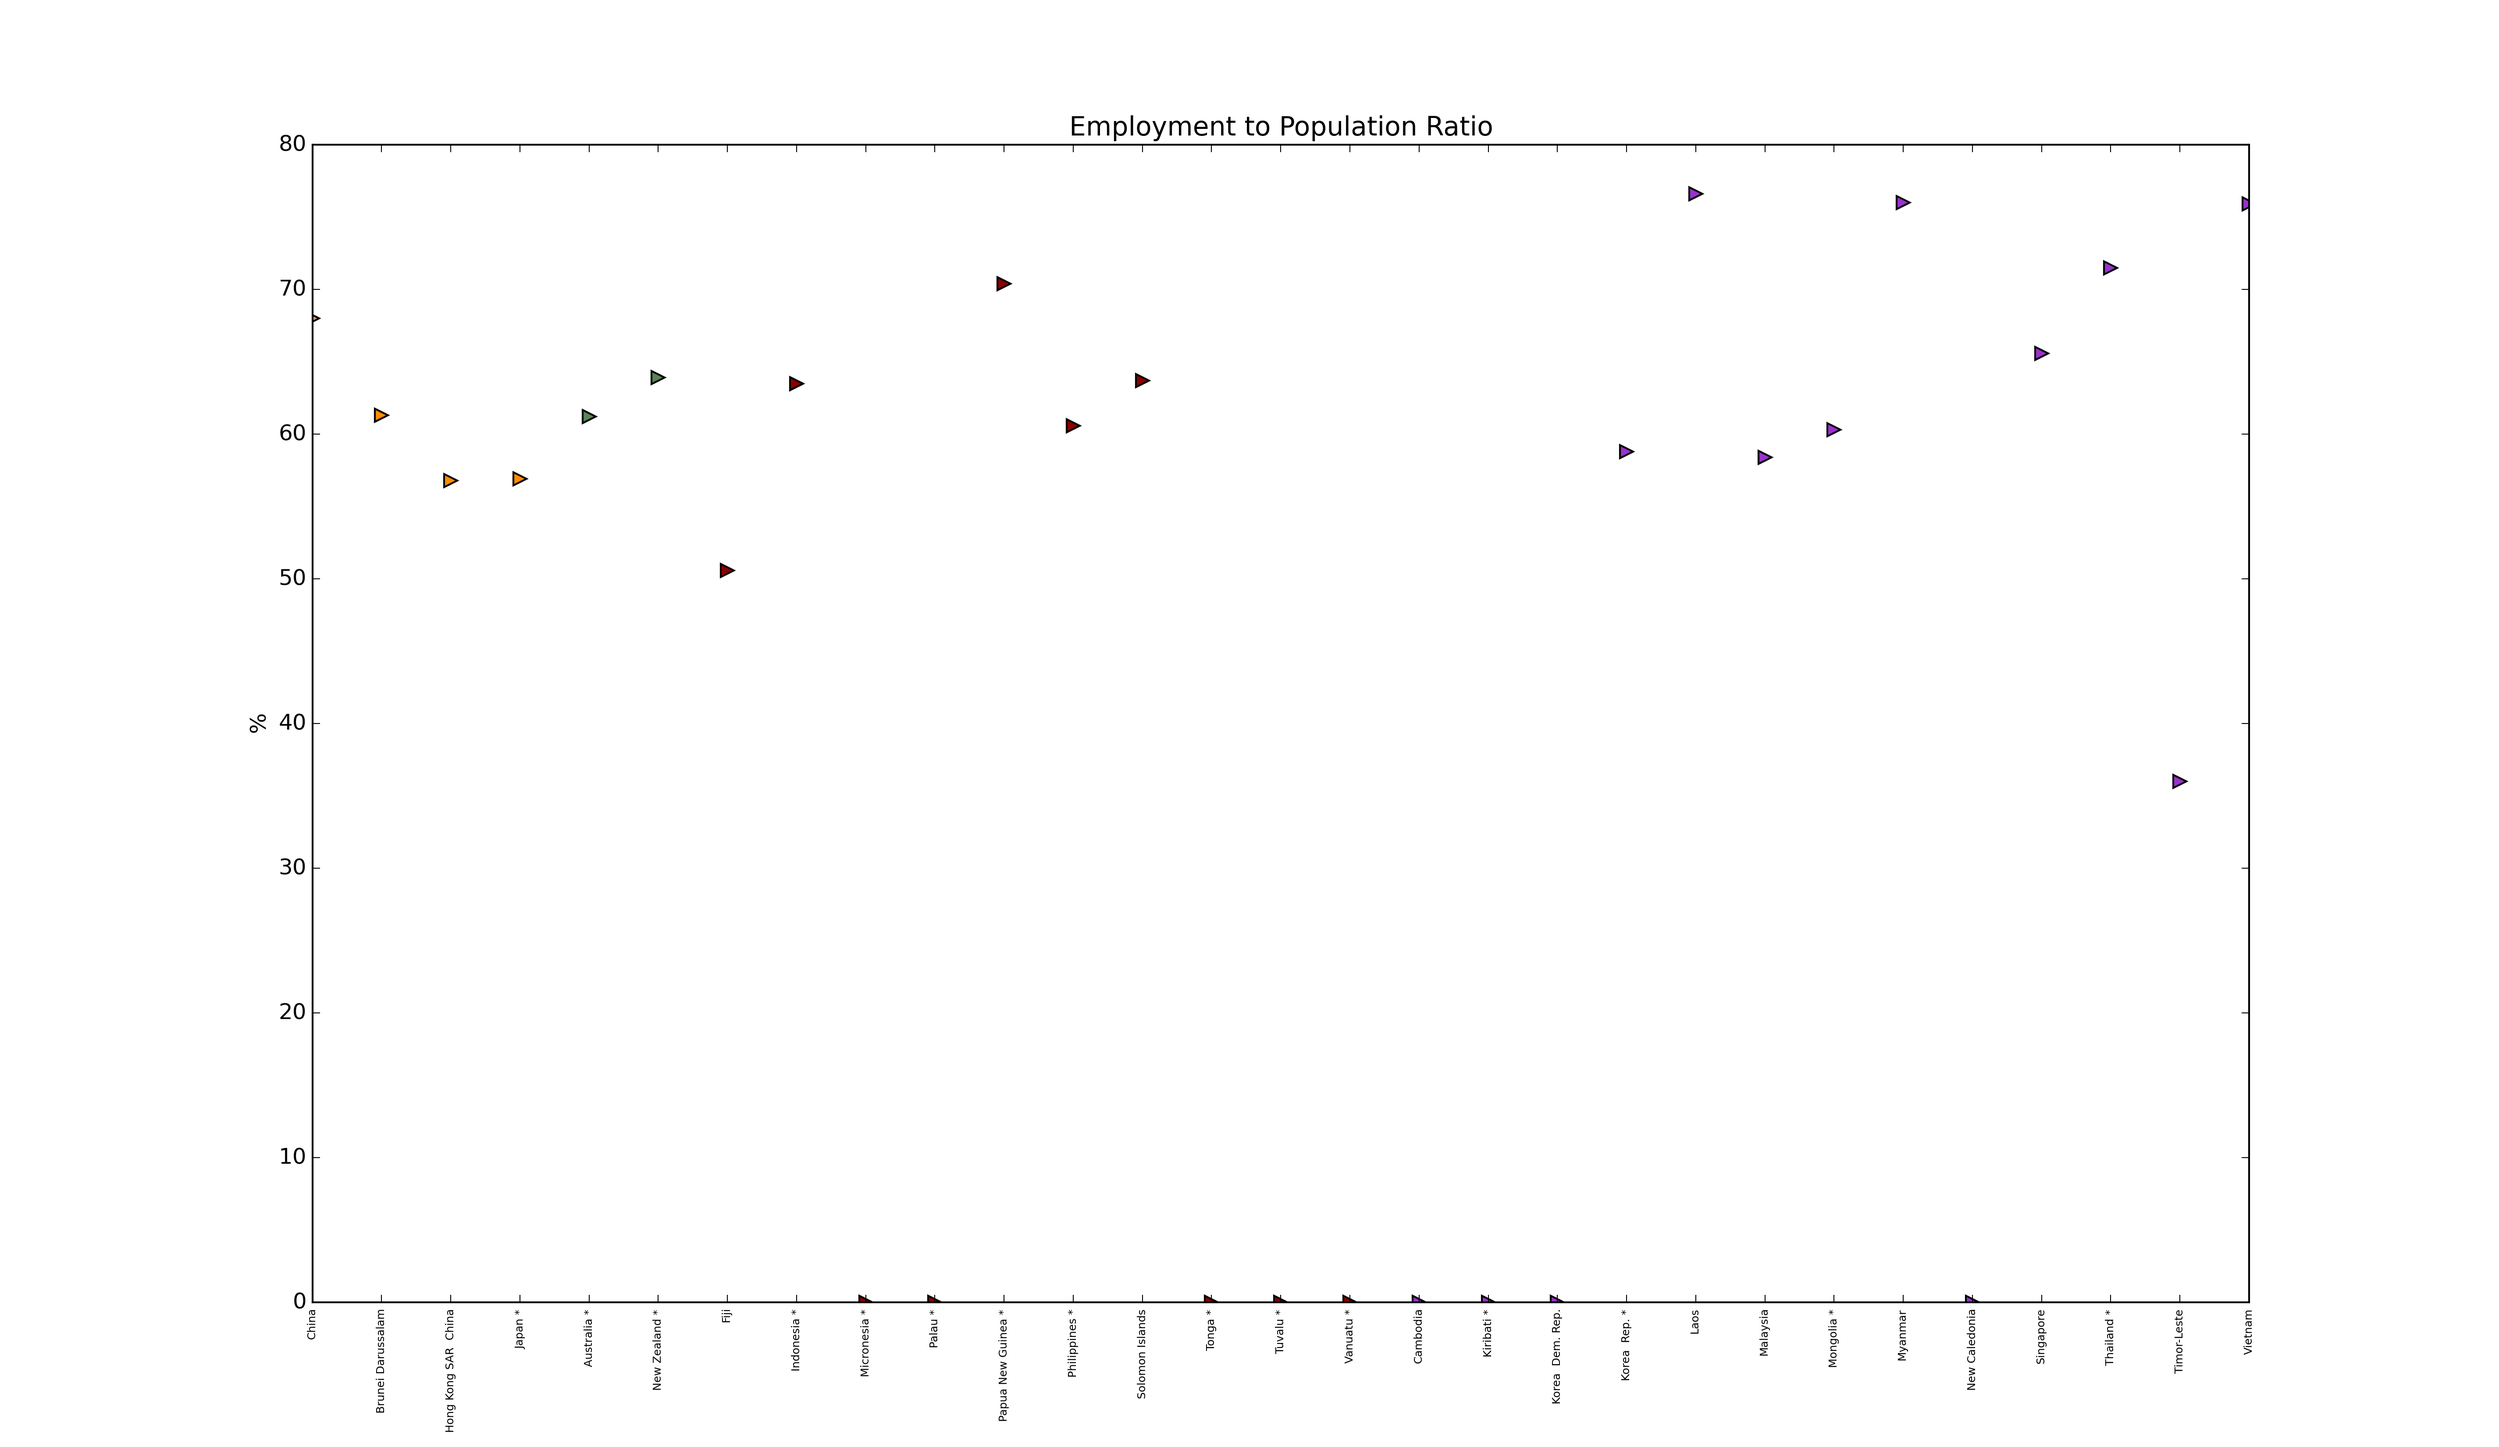
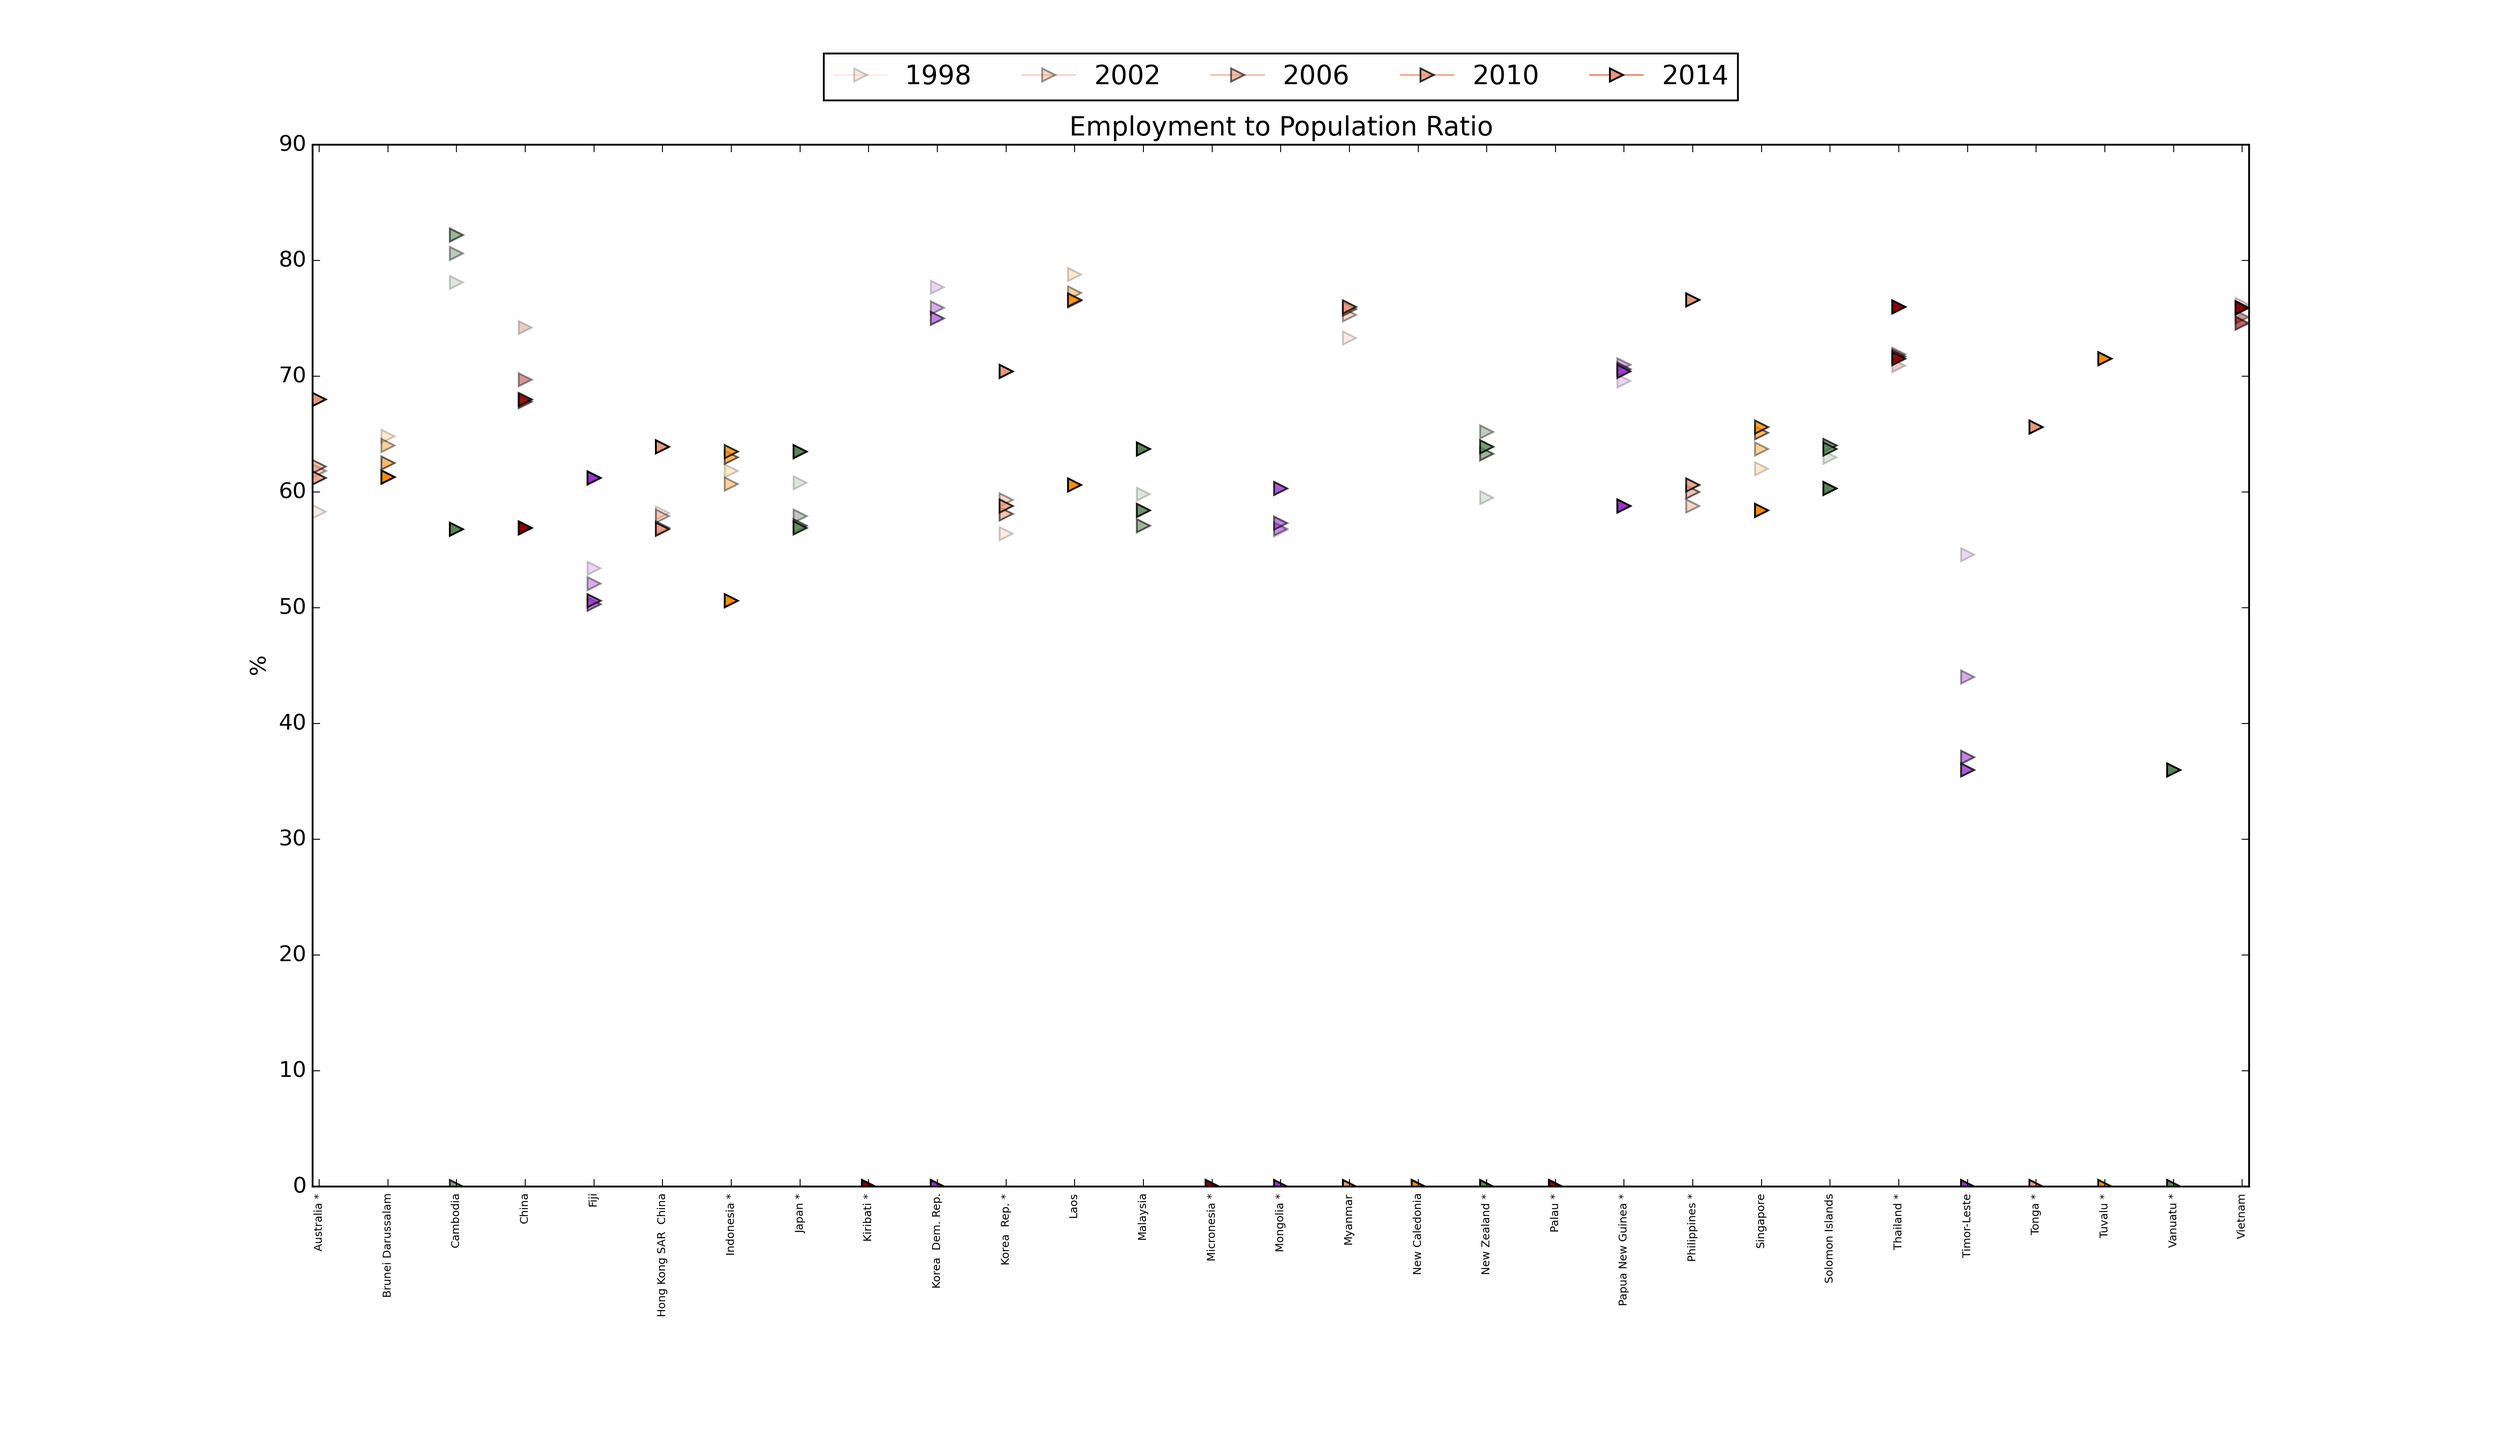
Better display graphs when there is a lot of data and xcorr display for selected regions

diff --git a/quicklook.py b/quicklook.py
@@ -71,7 +71,8 @@ def readStatFile(filename, separator=','):
 
 # Extract relevant region
 def get_region(data, region):
-    regionidx = numpy.nonzero(data['Region']==region)[0]
+    regionidx=numpy.nonzero([region in string for string in data['Region']])[0]
+
     if len(regionidx)<1:
         regionidx = []
         if other_regions.has_key(region):
@@ -86,35 +87,38 @@ def get_region(data, region):
     return data[regionidx]
 
 # Plot functions
-def plot_colidx(units, data, colidx, label=None):
-    varname = data.dtype.names[opts.colidx]
-    if string.lower(units[opts.colidx]) == 'indicator':
+def plot_colidx(units, data, colidx, marker='.', label=None, addtitle=False):
+    varname = data.dtype.names[colidx]
+    if string.lower(units[colidx]) == 'indicator':
         raise RuntimeError('"%s" is indicator column, not variable column'%varname)
-    print('Showing only variable "%s"'%varname)
+    print('\tShowing variable "%s using marker %s"' % (varname, marker))
     countries = data['Country']
-    ax.set_title(varname)
-    ax.set_ylabel(units[opts.colidx])
+    if addtitle: ax.set_title(varname)
+    ax.set_ylabel(units[colidx])
     ax.tick_params(axis='x', which='major', labelsize=6)
     plt.xticks(range(len(data[varname])), countries, rotation='vertical')
+    plt.xlim(-0.1, len(data[varname])-0.9)
     if label is None:
-        plt.plot(range(len(data[varname])), data[varname], '.')
+        plt.plot(range(len(data[varname])), data[varname], marker)
     if label is not None:
-        plt.plot(range(len(data[varname])), data[varname], '.', label=label)
+        plt.plot(range(len(data[varname])), data[varname], marker, label=label)
     plt.ylim(numpy.min(data[varname])-1,numpy.max(data[varname])+1)
     return varname
-def plot_xcorr(units, data, xcol, ycol, label=None):
+def plot_xcorr(units, data, xcol, ycol, label=None, linefit=True):
     xvar = data.dtype.names[xcol]
     xdata = data[xvar]
     yvar = data.dtype.names[ycol]
     ydata = data[yvar]
     ax.set_ylabel('%s [%s]' % (yvar, units[ycol]))
     ax.set_xlabel('%s [%s]' % (xvar, units[xcol]))
+    polycoeffs = numpy.polyfit(xdata[ydata!=0], ydata[ydata!=0], 2)
+    polyvals = numpy.polyval(polycoeffs, numpy.unique(xdata[ydata!=0]))
     if label is None:
         plt.plot(xdata, ydata, '.')
-        plt.plot(numpy.unique(xdata[ydata!=0]),
-                numpy.poly1d(numpy.polyfit(xdata[ydata!=0], ydata[ydata!=0], 1))(numpy.unique(xdata[ydata!=0])), 'r--')
     if label is not None:
         plt.plot(xdata, ydata, '.', label=label)
+    if linefit:
+        plt.plot(numpy.unique(xdata[ydata!=0]), polyvals, 'k--', alpha=0.5)
     return [xvar, yvar]
 def plot_regions(units, data, name, alpha=1., label=None, all_flag=False):
     # Colors per subregion
@@ -147,7 +151,7 @@ def plot_regions(units, data, name, alpha=1., label=None, all_flag=False):
 
 if __name__ == '__main__':
 
-    parser = OptionParser(usage='python %prog [options] <SATS DATA file>.csv', version="%prog 1.0")
+    parser = OptionParser(usage='python %prog [options] <file0>.csv <file1>.csv ...', version="%prog 1.0")
     group = OptionGroup(parser, 'Data Grouping')
     group.add_option('-s', '--sort',
                       dest='sortorder',
@@ -176,7 +180,7 @@ if __name__ == '__main__':
                       help='Name of subregion to display data')
     group.add_option('--colidx',
                       dest='colidx',
-                      type=int,
+                      type=str,
                       default=None,
                       help='Index of variable column selected')
     parser.add_option_group(group)
@@ -212,6 +216,16 @@ if __name__ == '__main__':
                       help="Display data in file to screen")
     parser.add_option_group(group)
 
+    parser.add_option("--nolegend",
+                      dest='nolegend',
+                      action="store_true",
+                      default=False,
+                      help="Do not display legend on graph")
+    parser.add_option("--linefit",
+                      dest='linefit',
+                      action="store_true",
+                      default=False,
+                      help="Fit polynomial to cross-correlator data")
     parser.add_option('-o', "--output",
                       dest='savegraph',
                       action="store_true",
@@ -274,18 +288,47 @@ if __name__ == '__main__':
             data = data[subregionidx]
 
     if opts.colidx is not None:
+        columns = numpy.array(opts.colidx.strip().split(','),dtype=int)
+        mkrs=['o', 'v', '^', '<', '>', 's', 'p', '*', 'x', '+']
+        label=None
         fig = plt.figure(figsize=[19,11], facecolor='white')
+        plt.hold(True)
         ax = fig.add_subplot(111)
-        if len(args) > 1:
-            for data_date in data_dict.keys():
-                units = data_dict[data_date]['units']
-                data = data_dict[data_date]['data']
-                varname = plot_colidx(units, data, opts.colidx, label=data_date)
-            ax.legend(loc=0)
-        else:
-            varname = plot_colidx(units, data, opts.colidx)
-        if opts.verbose: plt.show()
-        if opts.savegraph: plt.savefig('Column_%s.png'%'_'.join(varname.split()),dpi=300)
+        for cntr,colidx in enumerate(columns):
+            marker=mkrs[cntr%len(mkrs)]
+            if len(columns) > 1:
+                addtitle=False
+                if not opts.nolegend:
+                    label='%s' % (data.dtype.names[colidx])
+            else:
+                addtitle=True
+            if len(args) > 1:
+                for data_date in numpy.sort(data_dict.keys()):
+                    print('Data for %s' % data_date)
+                    units = data_dict[data_date]['units']
+                    data = data_dict[data_date]['data']
+                    if len(columns) > 1 and not opts.nolegend:
+                        label='%s: %s' % (data_date, data.dtype.names[colidx])
+                    else:
+                        label='%s' % (data_date)
+                    if opts.nolegend:
+                        label=None
+                    varname = plot_colidx(units, data, colidx, marker=marker, label=label, addtitle=addtitle)
+            else:
+                varname = plot_colidx(units, data, colidx, label=label)
+        plt.hold(False)
+        # Shrink current axis's height by 10% on the bottom
+        box = ax.get_position()
+        ax.set_position([box.x0, box.y0 + box.height * 0.1, box.width, box.height * 0.9])
+        # Put a legend below current axis
+        ax.legend(loc='upper center', bbox_to_anchor=(0.5, 1.1), ncol=5, numpoints=1)
+        if opts.savegraph:
+            imagename = 'Column_%s.png' % '_'.join(varname.split())
+            if len(columns) > 1:
+                imagename='Column_multivars.png'
+            plt.savefig(imagename,dpi=300)
+        if opts.verbose:
+            plt.show()
         import sys
         sys.exit(0)
 
@@ -298,12 +341,12 @@ if __name__ == '__main__':
             for data_date in data_dict.keys():
                 units = data_dict[data_date]['units']
                 data = data_dict[data_date]['data']
-                [xvar, yvar] = plot_xcorr(units, data, opts.xcol, opts.ycol, label=data_date)
+                [xvar, yvar] = plot_xcorr(units, data, opts.xcol, opts.ycol, label=data_date, linefit=opts.linefit)
             ax.legend(loc=0)
         else:
             [xvar, yvar] = plot_xcorr(units, data, opts.xcol, opts.ycol)
-        if opts.verbose: plt.show()
         if opts.savegraph: plt.savefig('%s_vs_%s.png'%('_'.join(xvar.split()), '_'.join(yvar.split())),dpi=300)
+        if opts.verbose: plt.show()
         import sys
         sys.exit(0)
 
@@ -340,9 +383,13 @@ if __name__ == '__main__':
             units = data_dict[data_dict.keys()[0]]['units']
             data = data_dict[data_dict.keys()[0]]['data']
     if opts.regions:
+        print('Data Regions:')
         regions = map(str.strip, data['Region'])
-        for region in numpy.unique(regions):
-            print region
+        for region in numpy.sort(numpy.unique(regions)):
+            print('\t%s' % region)
+        print('Additional Regions:')
+        for region in numpy.sort(other_regions.keys()):
+            print('\t%s' % region)
     if opts.subregions:
         subregions = map(str.strip, data['Sub Region'])
         for subregion in numpy.unique(subregions):
@@ -372,6 +419,7 @@ if __name__ == '__main__':
         ax.set_ylabel(units[varidx[0]+colidx])
         ax.tick_params(axis='x', which='major', labelsize=6)
         plt.xticks(range(len(data[name])), countries, rotation='vertical')
+        plt.xlim(-0.1, len(data[name])-0.9)
         if len(args) > 1:
             plt.hold(True)
             for date_idx, data_date in enumerate(numpy.sort(data_dict.keys())):
@@ -381,7 +429,12 @@ if __name__ == '__main__':
                         alpha=float(date_idx+1)/float(len(data_dict.keys())),
                         label=data_date, all_flag=all_flag)
             plt.hold(False)
-            ax.legend(loc=0)
+            # ax.legend(loc=0)
+            # Shrink current axis's height by 10% on the bottom
+            box = ax.get_position()
+            ax.set_position([box.x0, box.y0 + box.height * 0.1, box.width, box.height * 0.9])
+            # Put a legend below current axis
+            ax.legend(loc='upper center', bbox_to_anchor=(0.5, 1.1), ncol=5, numpoints=1)
         else:
             plot_regions(units, data, name, all_flag=all_flag)
         if opts.savegraph:
